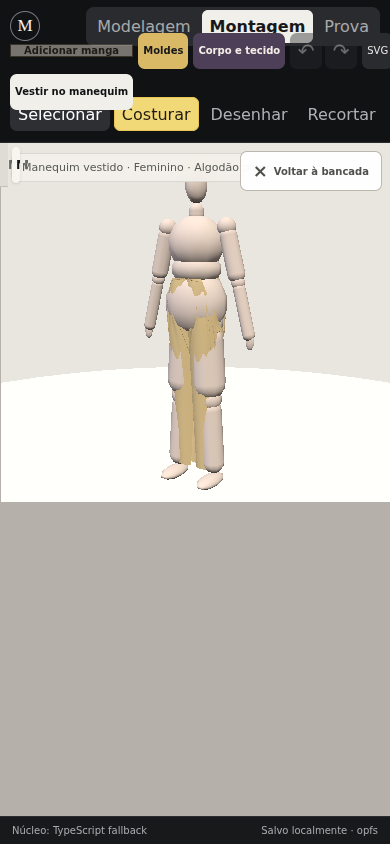
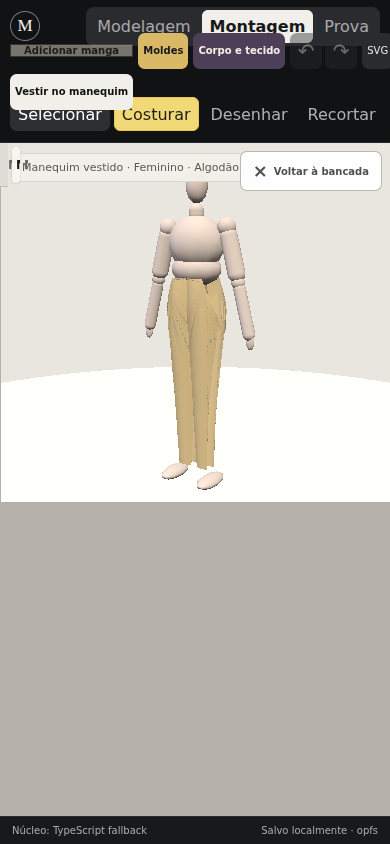
fix: mask mannequin surfaces covered by garments

Changed region(s): [[0.4, 0.3081, 0.5846, 0.5853]]

diff --git a/apps/web/src/garment3d/SemanticAvatarArrangement.ts b/apps/web/src/garment3d/SemanticAvatarArrangement.ts
@@ -48,6 +48,7 @@ export interface SemanticAvatarArrangementResult {
   collision: AvatarCollisionModel;
   diagnostics: ArrangementDiagnostic[];
   visibleInstanceIds: Set<string>;
+  coveredAvatarPartNames: Set<string>;
 }
 
 const METERS_PER_MM = 0.001;
@@ -89,6 +90,7 @@ export function buildSemanticAvatarArrangement(
   applyMinimalSeamStabilization(state, visibleInstanceIds, 1, 0.0015);
   state.initialPositions.set(state.positions);
   state.previousPositions.set(state.positions);
+  const coveredAvatarPartNames = resolveCoveredAvatarParts(state, visibleInstanceIds, avatar);
 
   return {
     garment: resolvedGarment,
@@ -97,6 +99,7 @@ export function buildSemanticAvatarArrangement(
     collision: buildAvatarCollisionModel(avatar),
     diagnostics: uniqueDiagnostics(diagnostics),
     visibleInstanceIds,
+    coveredAvatarPartNames,
   };
 }
 
@@ -266,6 +269,67 @@ function explicitPlacements(piece: PatternPiece, garment: GarmentDraft): Pattern
       mirrorX: Boolean(placement.flipped) !== (index === 1),
     }));
   });
+}
+
+function resolveCoveredAvatarParts(
+  state: GarmentAssemblyState,
+  visibleInstanceIds: ReadonlySet<string>,
+  avatar: AvatarParametricModel,
+): Set<string> {
+  const covered = new Set<string>();
+  const upperArmLength = Math.hypot(
+    avatar.joints.elbowLeft[0] - avatar.joints.shoulderLeft[0],
+    avatar.joints.elbowLeft[1] - avatar.joints.shoulderLeft[1],
+    avatar.joints.elbowLeft[2] - avatar.joints.shoulderLeft[2],
+  );
+  const thighLength = Math.max(0.1, avatar.landmarks.crotchY - avatar.landmarks.kneeY);
+
+  for (const instance of state.instances) {
+    if (!visibleInstanceIds.has(instance.id)) continue;
+    const region = instance.placement.region;
+    const side = instance.placement.bodySide;
+    const panelLength = instance.topology.boundsMm.height * validScale(instance.placement.scale) * METERS_PER_MM;
+
+    if (region === "torso") {
+      covered.add("avatar:chest");
+      covered.add("avatar:abdomen");
+      continue;
+    }
+
+    if (region === "waist" || region === "hip") {
+      covered.add("avatar:abdomen");
+      covered.add("avatar:pelvis");
+      const bodySides = side === "center" ? (["left", "right"] as const) : ([side] as const);
+      for (const bodySide of bodySides) {
+        if (bodySide !== "left" && bodySide !== "right") continue;
+        covered.add(`avatar:hip-${bodySide}`);
+        covered.add(`avatar:thigh-${bodySide}`);
+        if (panelLength >= thighLength * 0.82) covered.add(`avatar:knee-${bodySide}`);
+        if (panelLength >= thighLength * 1.55) covered.add(`avatar:calf-${bodySide}`);
+      }
+      continue;
+    }
+
+    if (region === "arm" && (side === "left" || side === "right")) {
+      covered.add(`avatar:shoulder-${side}`);
+      covered.add(`avatar:upper-arm-${side}`);
+      if (panelLength >= upperArmLength * 0.78) {
+        covered.add(`avatar:elbow-${side}`);
+        covered.add(`avatar:forearm-${side}`);
+      }
+      continue;
+    }
+
+    if (region === "leg" && (side === "left" || side === "right")) {
+      covered.add("avatar:pelvis");
+      covered.add(`avatar:hip-${side}`);
+      covered.add(`avatar:thigh-${side}`);
+      covered.add(`avatar:knee-${side}`);
+      covered.add(`avatar:calf-${side}`);
+    }
+  }
+
+  return covered;
 }
 
 function arrangeInstance(

diff --git a/apps/web/src/viewport/GlobalThreeViewport.ts b/apps/web/src/viewport/GlobalThreeViewport.ts
@@ -97,14 +97,14 @@ export class ThreeViewport {
     this.clearAvatar();
 
     const avatar = buildAvatarParametricModel(garment.measurements, garment.bodyType);
+    const arrangement = buildSemanticAvatarArrangement(snapshots, garment, avatar);
     const visual = createAvatarVisual(avatar, {
       radialSegments: this.profile.avatarRadialSegments,
       castShadow: this.profile.shadows,
       receiveShadow: this.profile.shadows,
+      hiddenPartNames: arrangement.coveredAvatarPartNames,
     });
     this.avatarGroup.add(visual);
-
-    const arrangement = buildSemanticAvatarArrangement(snapshots, garment, avatar);
     this.garmentMeshes = buildGarmentAssemblyMeshes(arrangement.state, arrangement.garment, {
       castShadow: this.profile.shadows,
       receiveShadow: this.profile.shadows,
@@ -117,6 +117,7 @@ export class ThreeViewport {
     this.host.dataset.avatarAnchorCount = String(avatar.anchors.length);
     this.host.dataset.collisionProxyCount = String(arrangement.collision.proxies.length);
     this.host.dataset.garmentInstanceCount = String(this.garmentMeshes.length);
+    this.host.dataset.coveredAvatarPartCount = String(arrangement.coveredAvatarPartNames.size);
     this.host.dataset.arrangementDiagnosticCount = String(arrangement.diagnostics.length);
     this.host.dataset.arrangementErrorCount = String(arrangement.diagnostics.filter((item) => item.severity === "error").length);
     this.host.dataset.frameTarget = "avatar-and-garment";

diff --git a/apps/web/src/garment3d/SemanticAvatarArrangement.test.ts b/apps/web/src/garment3d/SemanticAvatarArrangement.test.ts
@@ -109,4 +109,35 @@ describe("SemanticAvatarArrangement", () => {
     expect(result.diagnostics.some((diagnostic) => diagnostic.code === "disconnected-component" && diagnostic.pieceId === extra.id)).toBe(true);
   });
 
+
+  it("masks only mannequin shells covered by each semantic garment", () => {
+    const shirt = arrange("tshirt");
+    expect([...shirt.coveredAvatarPartNames]).toEqual(expect.arrayContaining([
+      "avatar:chest",
+      "avatar:abdomen",
+      "avatar:upper-arm-left",
+      "avatar:upper-arm-right",
+    ]));
+    expect(shirt.coveredAvatarPartNames.has("avatar:head")).toBe(false);
+    expect(shirt.coveredAvatarPartNames.has("avatar:hand-left")).toBe(false);
+
+    const skirt = arrange("straight-skirt");
+    expect([...skirt.coveredAvatarPartNames]).toEqual(expect.arrayContaining([
+      "avatar:pelvis",
+      "avatar:thigh-left",
+      "avatar:thigh-right",
+    ]));
+    expect(skirt.coveredAvatarPartNames.has("avatar:foot-left")).toBe(false);
+
+    const trousers = arrange("straight-pants");
+    expect([...trousers.coveredAvatarPartNames]).toEqual(expect.arrayContaining([
+      "avatar:pelvis",
+      "avatar:thigh-left",
+      "avatar:thigh-right",
+      "avatar:calf-left",
+      "avatar:calf-right",
+    ]));
+    expect(trousers.coveredAvatarPartNames.has("avatar:foot-left")).toBe(false);
+  });
+
 });

diff --git a/apps/web/src/viewport/AvatarVisual.test.ts b/apps/web/src/viewport/AvatarVisual.test.ts
@@ -1,0 +1,24 @@
+import { describe, expect, it } from "vitest";
+import { buildAvatarParametricModel } from "../avatar/AvatarParametricModel";
+import { DEFAULT_BODY_MEASUREMENTS } from "../patterns/templateCatalog";
+import { createAvatarVisual } from "./AvatarVisual";
+
+describe("AvatarVisual coverage", () => {
+  it("omits covered internal shells while preserving visible human extremities", () => {
+    const avatar = buildAvatarParametricModel(DEFAULT_BODY_MEASUREMENTS, "feminine");
+    const visual = createAvatarVisual(avatar, {
+      radialSegments: 10,
+      castShadow: false,
+      receiveShadow: false,
+      hiddenPartNames: new Set(["avatar:chest", "avatar:pelvis", "avatar:thigh-left"]),
+    });
+    const names = new Set<string>();
+    visual.traverse((object) => names.add(object.name));
+    expect(names.has("avatar:chest")).toBe(false);
+    expect(names.has("avatar:pelvis")).toBe(false);
+    expect(names.has("avatar:thigh-left")).toBe(false);
+    expect(names.has("avatar:head")).toBe(true);
+    expect(names.has("avatar:hand-left")).toBe(true);
+    expect(names.has("avatar:foot-left")).toBe(true);
+  });
+});

diff --git a/apps/web/src/viewport/AvatarVisual.ts b/apps/web/src/viewport/AvatarVisual.ts
@@ -6,6 +6,7 @@ export interface AvatarVisualOptions {
   radialSegments: number;
   castShadow: boolean;
   receiveShadow: boolean;
+  hiddenPartNames?: ReadonlySet<string>;
 }
 
 export function createAvatarVisual(
@@ -104,6 +105,7 @@ function addEllipsoid(
   segments: number,
   options: AvatarVisualOptions,
 ): void {
+  if (options.hiddenPartNames?.has(name)) return;
   const geometry = new THREE.SphereGeometry(1, segments, Math.max(6, Math.floor(segments * 0.72)));
   geometry.scale(Math.max(0.001, radii[0]), Math.max(0.001, radii[1]), Math.max(0.001, radii[2]));
   const mesh = new THREE.Mesh(geometry, material);
@@ -124,6 +126,7 @@ function addCapsule(
   segments: number,
   options: AvatarVisualOptions,
 ): void {
+  if (options.hiddenPartNames?.has(name)) return;
   const direction = new THREE.Vector3(end[0] - start[0], end[1] - start[1], end[2] - start[2]);
   const distance = direction.length();
   if (distance <= 1e-6) return;

diff --git a/docs/evidence/prompt09-avatar-assembly/prompt09-surface-audit.md b/docs/evidence/prompt09-avatar-assembly/prompt09-surface-audit.md
@@ -1,0 +1,9 @@
+# Auditoria final das superfícies vestidas
+
+| Cenário | Template | Viewport | Instâncias | Erros |
+|---|---|---:|---:|---:|
+| desktop-tshirt | Camiseta básica | 1440×960 | 6 | 0 |
+| desktop-skirt | Saia reta | 1440×960 | 4 | 0 |
+| mobile-trousers | Calça reta | 390×844 | 4 | 0 |
+
+A auditoria foi executada após tesselação adaptativa por comprimento máximo de aresta. As capturas precisam de revisão visual direta antes do encerramento.
